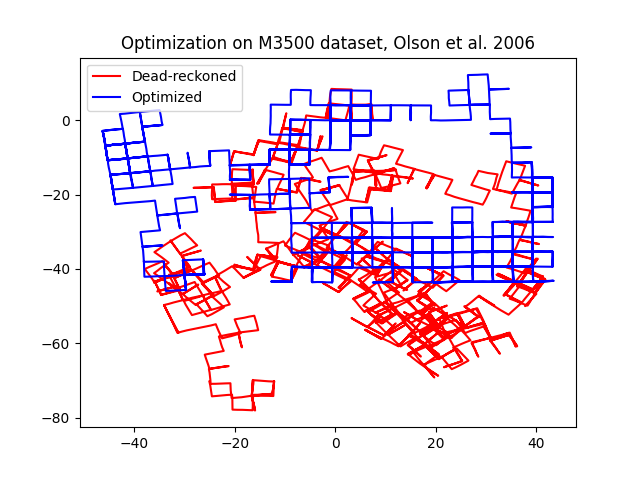
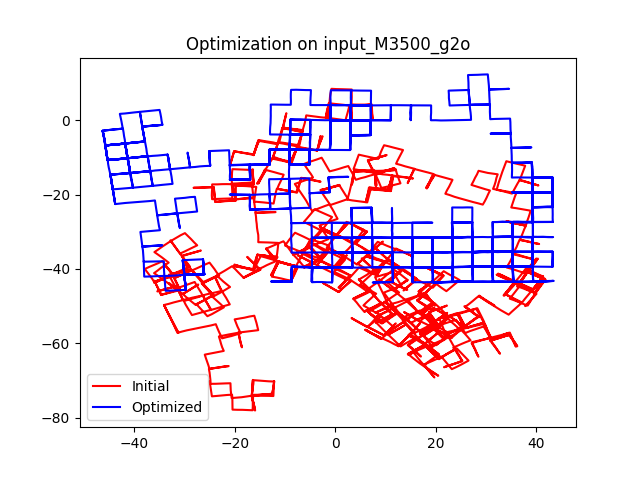
Update README.md

diff --git a/scripts/pose_graph_simple.py b/scripts/pose_graph_simple.py
@@ -70,10 +70,6 @@ with jaxfg.utils.stopwatch("Solve after initial compilation"):
     solution_assignments = graph.solve(initial_assignments)
     solution_assignments.storage.block_until_ready()  # type: ignore
 
-with jaxfg.utils.stopwatch("Solve after initial compilation"):
-    solution_assignments = graph.solve(initial_assignments)
-    solution_assignments.storage.block_until_ready()  # type: ignore
-
 # Note that we can also specify what nonlinear solver to use. Gauss-Newton is the
 # default; Levenberg-Marquardt is also implemented:
 #

diff --git a/scripts/pose_graph_g2o.py b/scripts/pose_graph_g2o.py
@@ -108,7 +108,7 @@ def main():
             # Equivalent:
             # *(onp.array([initial_poses.get_value(v).translation() for v in pose_variables]).T),
             c="r",
-            label="Dead-reckoned",
+            label="Initial",
         )
         plt.plot(
             *(
@@ -135,7 +135,7 @@ def main():
                 .T
             ),
             c="r",
-            label="Dead-reckoned",
+            label="Initial",
         )
         ax.plot3D(
             *(

diff --git a/README.md b/README.md
@@ -1,30 +1,33 @@
 # jaxfg
 
-Factor graph-based nonlinear optimization library for JAX.
+**`jaxfg`** is a factor graph-based nonlinear least squares library for JAX.
+Typical applications include sensor fusion, SLAM, bundle adjustment, optimal
+control.
 
-Applications include sensor fusion, control, planning, SLAM. Borrows _heavily_
-from a wide set of existing libraries, including:
-[Ceres Solver](http://ceres-solver.org/),
-[g2o](https://github.com/RainerKuemmerle/g2o), [GTSAM](https://gtsam.org/),
-[minisam](https://github.com/dongjing3309/minisam),
-[SwiftFusion](https://github.com/borglab/SwiftFusion).
+The premise: we provide a high-level interface for defining probability
+densities as factor graphs. MAP inference reduces to nonlinear optimization,
+which we accelerate by analyzing the structure of the graph. Repeated factor and
+variable types have operations vectorized, and the sparsity of graph connections
+is leveraged for sparse matrix operations.
 
 Features:
 
-- Autodiff-powered (sparse) Jacobians.
-- Automatic batching of factor computations.
-- Out-of-the-box support for optimization on SO(2), SO(3), SE(2), and SE(3).
-- 100% implemented in Python!
+- Autodiff-powered sparse Jacobians.
+- Automatic vectorization for repeated factor and variable types.
+- Manifold definition interface, with implementations provided for SO(2), SE(2),
+  SO(3), and SE(3) Lie groups.
+- Support for standard JAX function transformations: `jit`, `vmap`, `pmap`,
+  `grad`, etc.
+- Nonlinear optimizers: Gauss-Newton, Levenberg-Marquardt, Dogleg.
+- Sparse linear solvers: conjugate gradient (Jacobi-preconditioned), sparse
+  cholesky (via CHOLMOD).
 
-Current limitations:
-
-- JIT compilation adds significant startup overhead. This could likely be
-  optimized (for example, by specifying more analytical Jacobians) but is mostly
-  unavoidable with JAX/XLA. Limits applications for systems that are online or
-  require dynamic graph alterations.
-- Python >=3.7 only, due to features needed for generic types.
-
----
+Borrows heavily from a wide set of existing libraries, including:
+[GTSAM](https://gtsam.org/), [Ceres Solver](http://ceres-solver.org/),
+[minisam](https://github.com/dongjing3309/minisam),
+[SwiftFusion](https://github.com/borglab/SwiftFusion),
+[g2o](https://github.com/RainerKuemmerle/g2o). For additional technical
+background, we defer to [GTSAM](https://gtsam.org/tutorials/intro.html).
 
 ### Installation
 
@@ -43,25 +46,38 @@ cd jaxfg
 pip install -e .
 ```
 
----
-
 ### Example scripts
 
 Toy pose graph optimization:
 
-```
+```bash
 python scripts/pose_graph_simple.py
 ```
 
 Pose graph optimization from `.g2o` files:
 
 ```bash
-python scripts/pose_graph_g2o.py --help
+python scripts/pose_graph_g2o.py  # For options, pass in a --help flag
 ```
 
----
+![](./scripts/data/optimized_sphere2500.png)
+
+### Engineering notes
+
+We currently take a "make everything a dataclass" philosophy for software
+engineering in this library. This is convenient for several reasons, but notably
+makes it easy for objects to be registered as pytree nodes in JAX. See
+[`jax_dataclasses`](https://github.com/brentyi/jax_dataclasses) for details on
+this.
+
+In XLA, JIT compilation needs to happen for each unique set of input shapes.
+Modifying graph structures can thus introduce significant re-compilation
+overheads. This is a core limitation, that restricts dynamic and online
+applications.
 
 ### To-do
+
+This library's still in development mode! Here's our TODO list:
 
 - [x] Preliminary graph, variable, factor interfaces
 - [x] Real vector variable types
@@ -71,6 +87,7 @@ python scripts/pose_graph_g2o.py --help
   - [x] CHOLMOD linear solver
     - [x] Basic implementation. JIT-able, but no vmap, pmap, or autodiff
           support.
+    - [ ] Custom VJP rule? vmap support?
   - [x] Gauss-Newton implementation
   - [x] Termination criteria
   - [x] Damped least squares
@@ -80,7 +97,7 @@ python scripts/pose_graph_g2o.py --help
   - [x] Reduce redundant code
   - [ ] Robust losses
 - [x] Marginalization
-  - [x] Working prototype using sksparse/CHOLMOD
+  - [x] Prototype using sksparse/CHOLMOD (works but fairly slow)
   - [ ] JAX implementation?
 - [x] Validate g2o example
 - [x] Performance
@@ -110,3 +127,4 @@ python scripts/pose_graph_g2o.py --help
     - [ ] coverage
   - [ ] More comprehensive tests
   - [ ] Clean up docstrings
+  - [ ] Come up with a better name than "jaxfg"
